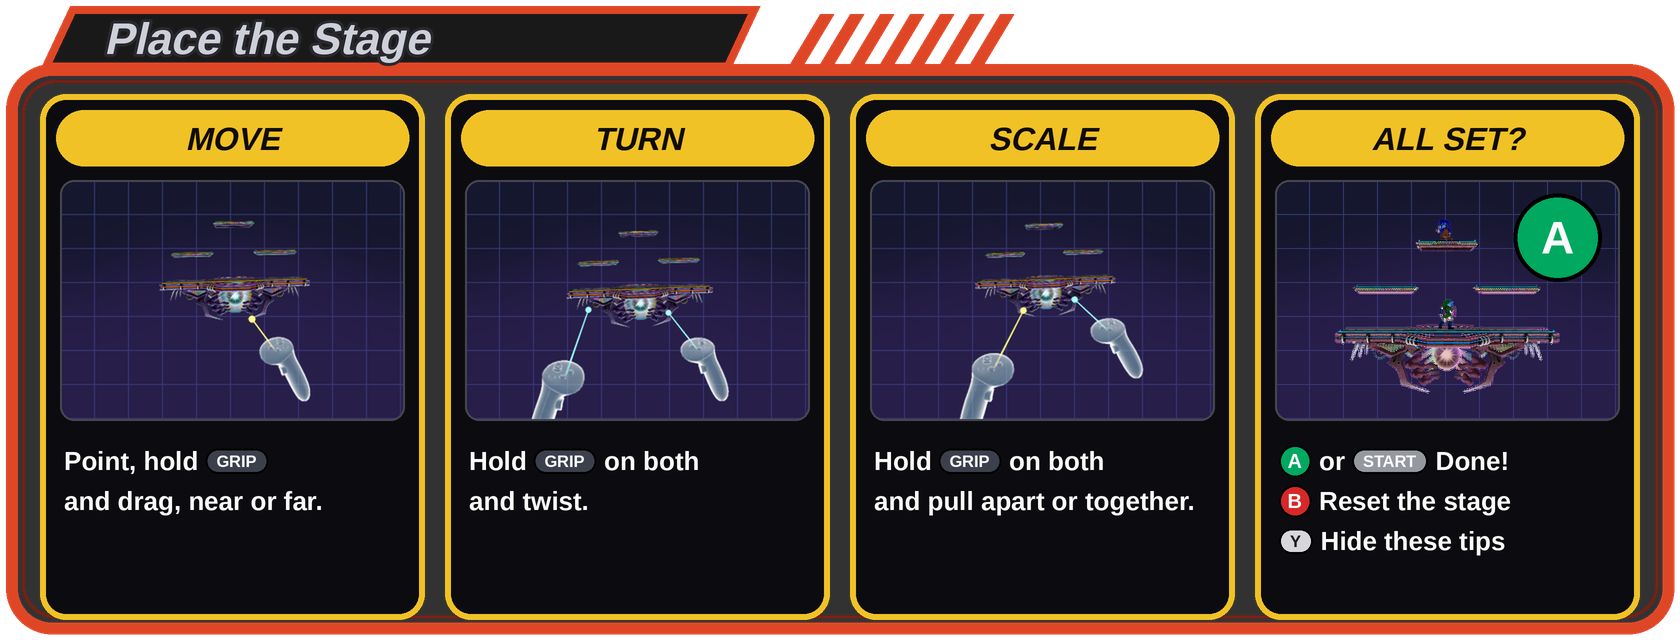
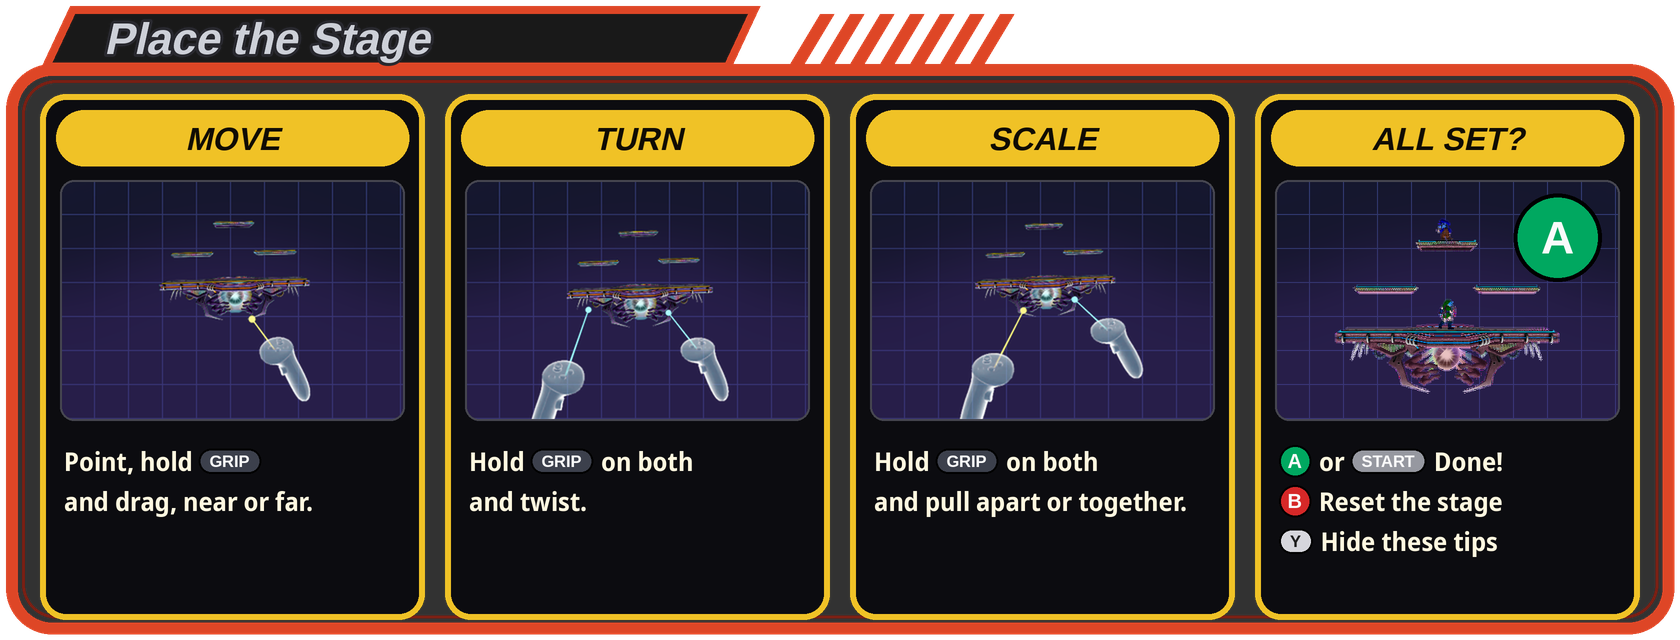
XR placing cards: captions and legend in the menus' Noto Sans, as the Options pages and the calibration

diff --git a/tools/xr_cards/make_cards.py b/tools/xr_cards/make_cards.py
@@ -28,7 +28,8 @@ from PIL import Image, ImageChops, ImageDraw, ImageFilter, ImageFont
 HERE = os.path.dirname(os.path.abspath(__file__))
 ROOT = os.path.normpath(os.path.join(HERE, "..", ".."))
 OUT = os.path.join(ROOT, "resources", "xr")
-FONT = os.path.join(ROOT, "resources", "font-bold.ttf")
+FONT = os.path.join(ROOT, "resources", "font-bold.ttf")  # Melee's slanted headings
+TEXT_FONT = os.path.join(ROOT, "resources", "menu-bold.ttf")  # the menus' Noto Sans, as the Options pages
 
 DONE = False  # the Place Stage menu flow: the cards say "done", not "fight"
 
@@ -45,6 +46,7 @@ GRID_BG = (22, 24, 48)
 GRID_LINE = (52, 62, 120)
 LASER = (115, 217, 255)
 WHITE = (250, 250, 250)
+CREAM = (255, 248, 224)  # the Options pages' row names (options-page.rcss)
 
 BUTTONS = {
     # label: (fill, text colour, shape)
@@ -59,6 +61,10 @@ BUTTONS = {
 
 def font(size):
     return ImageFont.truetype(FONT, size * SS)
+
+
+def text_font(size):
+    return ImageFont.truetype(TEXT_FONT, size * SS)
 
 
 def s(v):
@@ -100,9 +106,9 @@ def button(d, x, y, label, size=34):
     return x + w
 
 
-def rich_line(d, x, y, parts, size, fill=WHITE):
+def rich_line(d, x, y, parts, size, fill=CREAM):
     """A line of text with button glyphs: parts are strings or ("btn", label)."""
-    f = font(size)
+    f = text_font(size)
     for p in parts:
         if isinstance(p, tuple):
             x = button(d, x, y, p[1], size=size * 1.25) + s(8)
